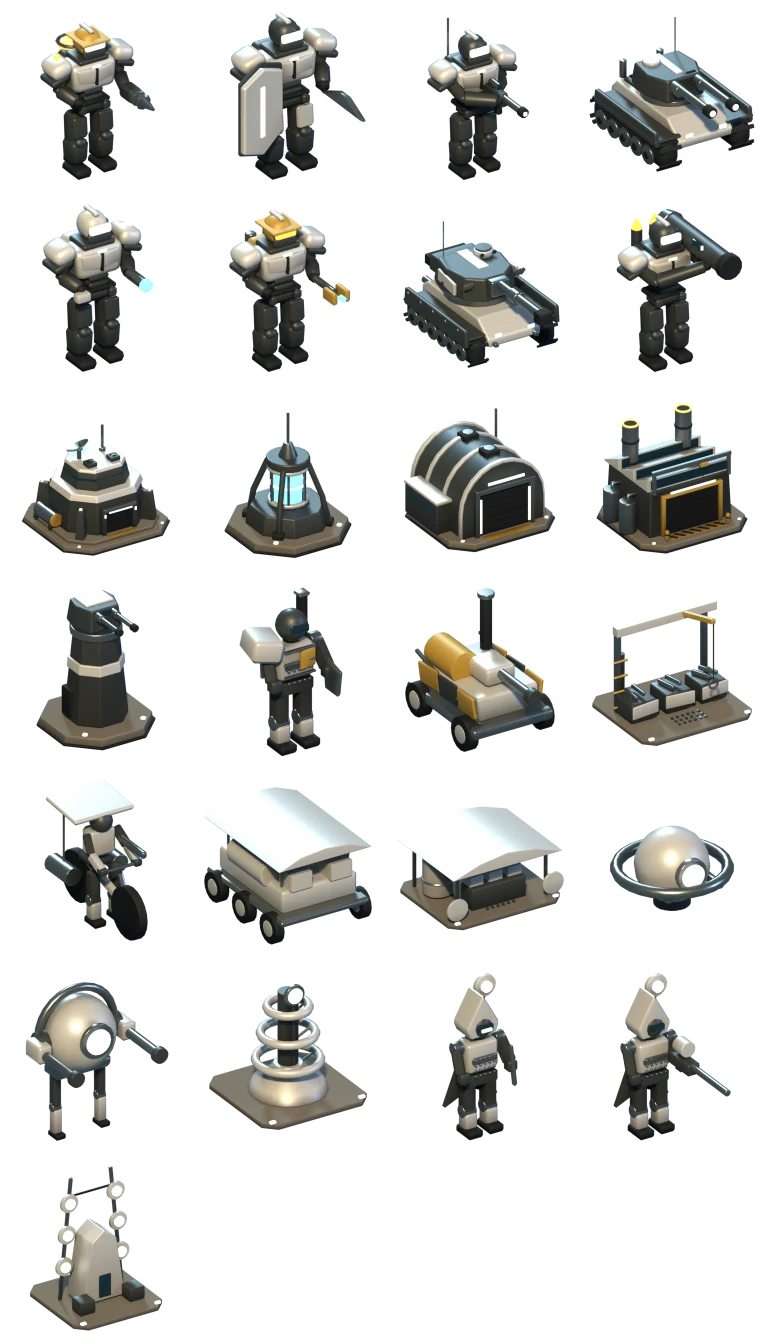
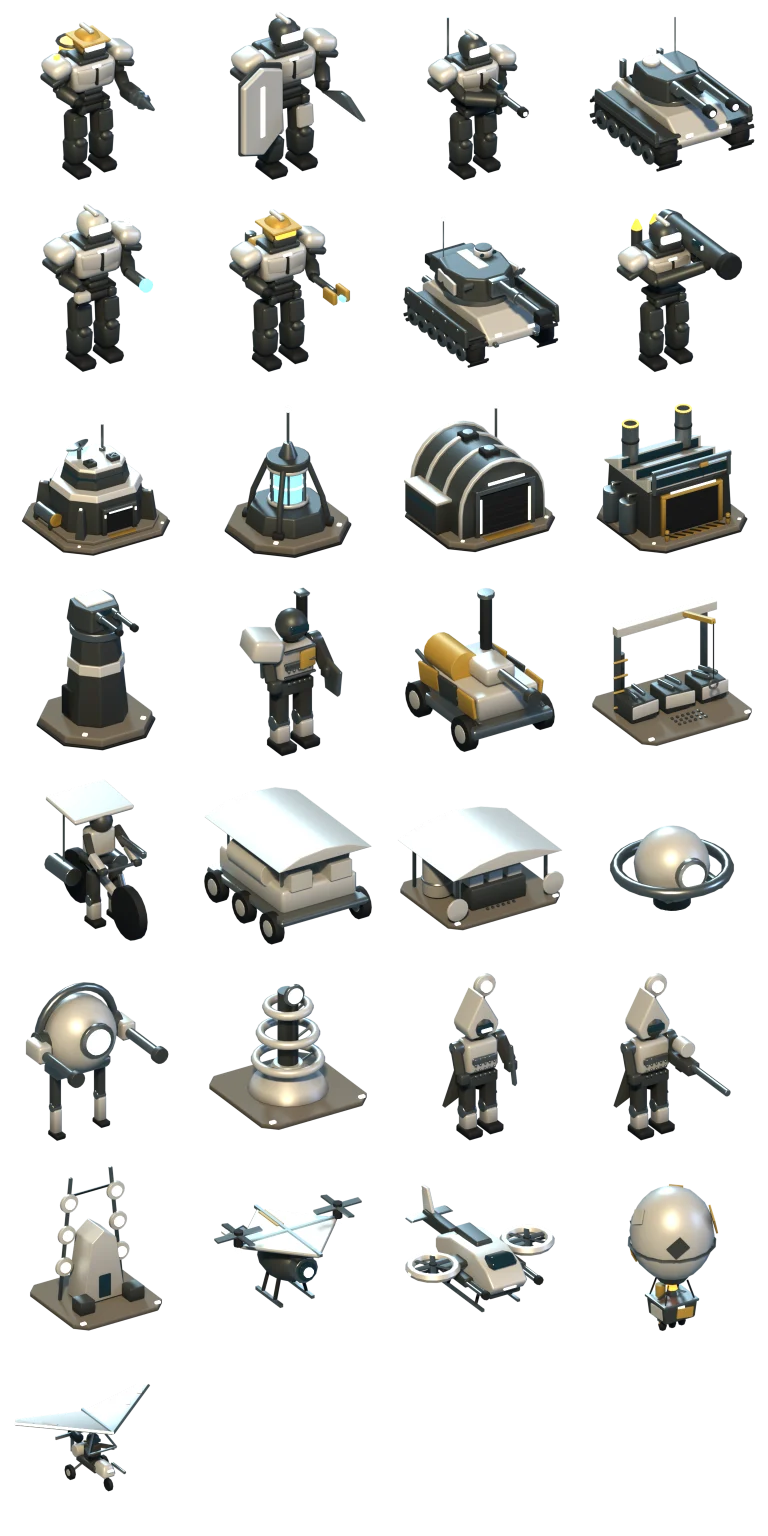
18.2 Flyer portraits and manifest entries: atlas 4x8 (768x1536), air:true assets

diff --git a/github-io/tests/assets.test.js b/github-io/tests/assets.test.js
@@ -84,8 +84,25 @@ test('portrait generation preserves legacy cells and appends every approved fact
   assert.deepEqual(order.slice(0, 13), ['worker','vanguard','ranger','breaker','medic','engineer','tank','antitank','hq','relay','barracks','foundry','tower']);
   const blender = JSON.parse(read('tools/blender/render_ui_art.py').match(/PORTRAITS = (\[[\s\S]*?\])/)[1].replaceAll("'", '"'));
   assert.deepEqual(blender, order);
-  const assets = JSON.parse(read('public/models/manifest.json')).assets.filter(a => a.faction);
-  assert.equal(new Set(order).size, 25);
-  assert.deepEqual(new Set(order.slice(13)), new Set(assets.map(a => a.name)));
+  const manifest = JSON.parse(read('public/models/manifest.json')).assets, assets = manifest.filter(a => a.faction);
+  assert.equal(new Set(order).size, 29);
+  assert.deepEqual(new Set(order.slice(13, 25)), new Set(assets.map(a => a.name)));
   for (const asset of assets) assert.equal(asset.review, 'approved by owner 2026-11-11');
+  // 0.18: the four flyers are appended after the faction cells (manifest entries marked air, no faction).
+  assert.deepEqual(order.slice(25), ['kite', 'hawk', 'balloon', 'glider']);
+  assert.deepEqual(manifest.filter(a => a.air).map(a => a.name), order.slice(25));
+});
+
+test('flyer models keep the air contract: hover bob, spin or flicker pivots, a triangle budget', () => {
+  const manifest = JSON.parse(readFileSync(new URL('../public/models/manifest.json', import.meta.url), 'utf8')).assets;
+  const pivots = { kite: ['spin_rotor_L', 'spin_rotor_R'], hawk: ['spin_fan_L', 'spin_fan_R'], balloon: ['flicker_flame'], glider: ['spin_prop'] };
+  for (const [type, names] of Object.entries(pivots)) {
+    const json = gltf(type), nodes = runtimeNames(json), asset = manifest.find(a => a.name === type);
+    assert.ok(balance.definitions[type].flying, type);
+    assert.ok(nodes.includes('hover'), `${type}: hover`);
+    for (const name of names) assert.ok(nodes.includes(name), `${type}: ${name}`);
+    const triangles = json.meshes.reduce((n, m) => n + m.primitives.reduce((k, p) => k + (p.indices === undefined ? json.accessors[p.attributes.POSITION].count : json.accessors[p.indices].count) / 3, 0), 0);
+    assert.equal(triangles, asset.triangles, type);
+    assert.ok(triangles <= asset.budget, type);
+  }
 });

diff --git a/github-io/src/portraits.css b/github-io/src/portraits.css
@@ -1,4 +1,4 @@
-/* Rendered unit and building portraits from a 4x7 atlas. The <i> layer multiplies the army
+/* Rendered unit and building portraits from a 4x8 atlas. The <i> layer multiplies the army
    colour into the white team paint, masked to exactly the painted parts. */
 .portrait-art {
   --size: 40px;
@@ -10,8 +10,8 @@
   height: var(--size);
   isolation: isolate;
   background: url("./art/portraits.webp") no-repeat;
-  background-size: 400% 700%;
-  background-position: calc(var(--px) * 100% / 3) calc(var(--py) * 100% / 6);
+  background-size: 400% 800%;
+  background-position: calc(var(--px) * 100% / 3) calc(var(--py) * 100% / 7);
   vertical-align: middle;
 }
 .portrait-art.hostile { --tint: var(--team-hostile, #ef7660); }
@@ -22,8 +22,8 @@
   mix-blend-mode: multiply;
   -webkit-mask: url("./art/portrait-mask.webp") no-repeat;
   mask: url("./art/portrait-mask.webp") no-repeat;
-  -webkit-mask-size: 400% 700%;
-  mask-size: 400% 700%;
-  -webkit-mask-position: calc(var(--px) * 100% / 3) calc(var(--py) * 100% / 6);
-  mask-position: calc(var(--px) * 100% / 3) calc(var(--py) * 100% / 6);
+  -webkit-mask-size: 400% 800%;
+  mask-size: 400% 800%;
+  -webkit-mask-position: calc(var(--px) * 100% / 3) calc(var(--py) * 100% / 7);
+  mask-position: calc(var(--px) * 100% / 3) calc(var(--py) * 100% / 7);
 }

diff --git a/github-io/src/portraits.js b/github-io/src/portraits.js
@@ -4,7 +4,8 @@ import { castPortrait, hasCast } from "./cast-portraits.js";
 // Cell order of src/art/portraits.webp and portrait-mask.webp (tools/blender/render_ui_art.py).
 export const PORTRAIT_ORDER = ["worker", "vanguard", "ranger", "breaker", "medic", "engineer", "tank", "antitank",
   "hq", "relay", "barracks", "foundry", "tower",
-  "scrapper", "scorcher", "salvageyard", "rider", "wagon", "waystation", "drone", "walker", "pylon", "shade", "watcher", "veilrelay"];
+  "scrapper", "scorcher", "salvageyard", "rider", "wagon", "waystation", "drone", "walker", "pylon", "shade", "watcher", "veilrelay",
+  "kite", "hawk", "balloon", "glider"];
 
 // A rendered Blender portrait. Team paint is white in the atlas; the mask layer tints it with
 // the side's army colour (friendly by default), so portraits follow the player's palette.

diff --git a/github-io/tools/blender/render_ui_art.py b/github-io/tools/blender/render_ui_art.py
@@ -6,7 +6,7 @@ The default out_dir is src/art, where Vite fingerprints the files it bundles.
 
 Outputs (WebP, sRGB):
   keyart.webp / keyart-960.webp  golden-hour outpost scene for the start screen
-  portraits.webp                 4x7 atlas of 192 px unit and building portraits, team paint white
+  portraits.webp                 4x8 atlas of 192 px unit and building portraits, team paint white
   portrait-mask.webp             same atlas; alpha marks visible team paint so the page can tint
                                  portraits with the player's chosen army colour
   emblem.webp                    512 px Frontier Command emblem on a transparent background
@@ -27,7 +27,8 @@ MODELS = ROOT / 'public' / 'models'
 # Atlas order is part of the page contract (see src/portraits.js).
 PORTRAITS = ['worker', 'vanguard', 'ranger', 'breaker', 'medic', 'engineer', 'tank', 'antitank',
              'hq', 'relay', 'barracks', 'foundry', 'tower',
-             'scrapper', 'scorcher', 'salvageyard', 'rider', 'wagon', 'waystation', 'drone', 'walker', 'pylon', 'shade', 'watcher', 'veilrelay']
+             'scrapper', 'scorcher', 'salvageyard', 'rider', 'wagon', 'waystation', 'drone', 'walker', 'pylon', 'shade', 'watcher', 'veilrelay',
+             'kite', 'hawk', 'balloon', 'glider']
 CELL, COLS = 192, 4
 ROWS = math.ceil(len(PORTRAITS) / COLS)
 

diff --git a/github-io/docs/ASSET_PIPELINE.md b/github-io/docs/ASSET_PIPELINE.md
@@ -84,7 +84,7 @@ Then run `npm test`, which includes `tests/assets.test.js`, and the browser suit
 blender --background --factory-startup --python tools/blender/render_ui_art.py -- src/art
 ```
 
-Arguments after the output folder (`keyart`, `portraits`, `emblem`) render only those parts. The portrait atlas is paired with a mask render in which team paint is white and everything else is held out. The page multiplies the player's army colour through that mask, so one atlas serves every colour choice. The atlas is 4 columns by 7 rows (768 by 1344 pixels), with the twelve approved faction portraits appended after the original thirteen. Portrait order is part of the page contract (`PORTRAIT_ORDER` in `src/portraits.js`). Buttons and labels are never baked into images. See [UI_REDESIGN.md](UI_REDESIGN.md).
+Arguments after the output folder (`keyart`, `portraits`, `emblem`) render only those parts. The portrait atlas is paired with a mask render in which team paint is white and everything else is held out. The page multiplies the player's army colour through that mask, so one atlas serves every colour choice. The atlas is 4 columns by 8 rows (768 by 1536 pixels): the original thirteen, the twelve approved faction portraits, then the four flyers of 0.18 (`kite`, `hawk`, `balloon`, `glider`; manifest entries marked `air: true`, written by `generate_air.py -- --manifest`). Portrait order is part of the page contract (`PORTRAIT_ORDER` in `src/portraits.js`). Buttons and labels are never baked into images. See [UI_REDESIGN.md](UI_REDESIGN.md).
 
 ## Known limits
 
